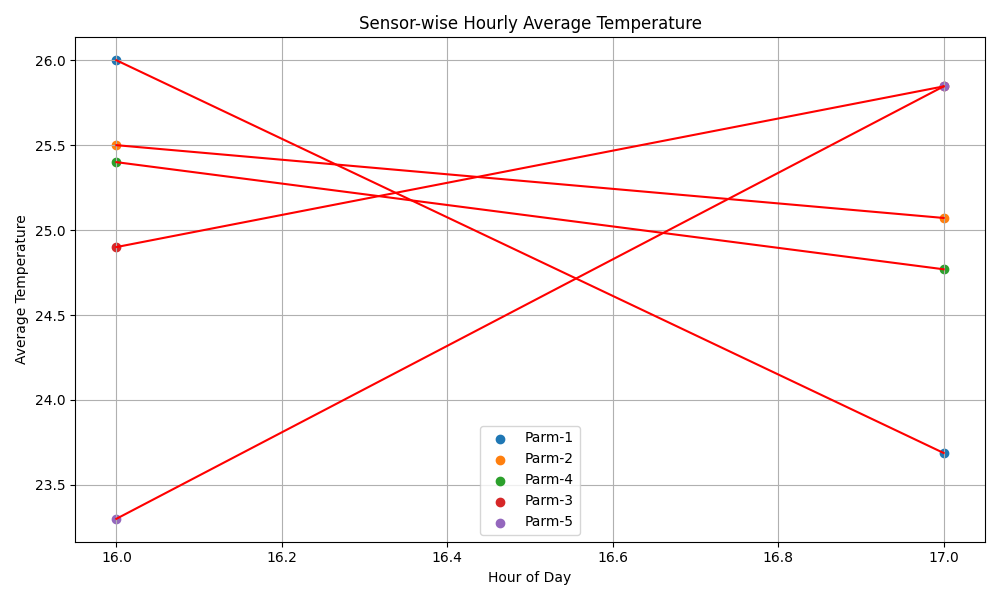
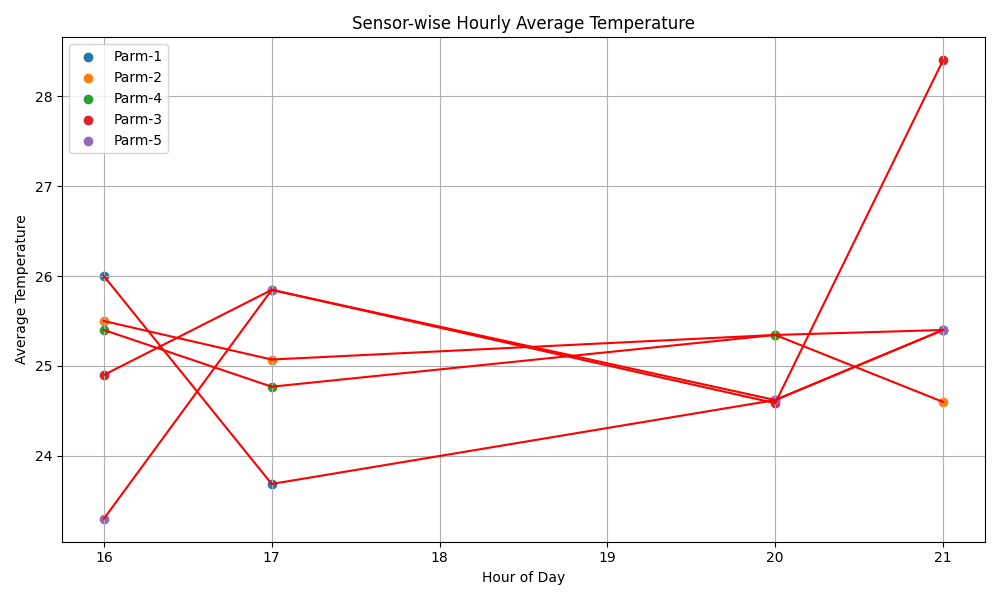
c4q3

diff --git a/proj2/c4q3/q2.py b/proj2/c4q3/q2.py
@@ -28,18 +28,84 @@ class ParmSensor:  # 센서 클래스 정의
 def insert_sensor_data(sensor_name, temperature, light, humidity):  # 센서 데이터를 DB에 저장
     conn = sqlite3.connect("smartfarm.db")  # 데이터베이스 연결
     cursor = conn.cursor()  # 커서 객체 생성
-    cursor.execute("""  # 데이터 삽입 SQL 실행
+    # 데이터 삽입 SQL 실행
+
+    timestamp = datetime.now().strftime("%Y-%m-%d %H:%M:%S")  # 문자열로 변환
+    cursor.execute("""  
         INSERT INTO parm_data (sensor_name, timestamp, temperature, light, humidity)
         VALUES (?, ?, ?, ?, ?)
-    """, (sensor_name, datetime.now(), temperature, light, humidity))  # 현재 시간 포함 데이터 삽입
+    """, (sensor_name, timestamp, temperature, light, humidity))  # 현재 시간 포함 데이터 삽입
     conn.commit()  # 변경사항 커밋
     conn.close()  # 연결 종료
+
+def print_all_data():
+    conn = sqlite3.connect("smartfarm.db")
+    cursor = conn.cursor()
+
+    cursor.execute("SELECT * FROM parm_data ORDER BY timestamp")
+    rows = cursor.fetchall()
+
+    print("\n[전체 센서 데이터]")
+    for row in rows:
+        print(row)
+
+    conn.close()
+
+def print_recent_data(start_time):
+    conn = sqlite3.connect("smartfarm.db")
+    cursor = conn.cursor()
+    #SQL 쿼리를 데이터베이스에 전달하고 실행합니다.
+    cursor.execute("""
+        SELECT * FROM parm_data
+        WHERE timestamp >= ?
+        ORDER BY timestamp
+    """, (start_time,))
+    # execute()로 실행된 쿼리의 결과를 모두 가져옵니다.
+    rows = cursor.fetchall()
+
+    print("\n[이번 실행 중 추가된 센서 데이터]")
+    for row in rows:
+        print(row)
+
+    conn.close()
+
+
+def analyze_data():  # 센서 데이터 분석 함수 정의
+    conn = sqlite3.connect("smartfarm.db")  # SQLite 데이터베이스 연결
+    cursor = conn.cursor()  # 커서 객체 생성
+
+    print("\n[센서별 데이터 수]")  # 센서별 데이터 개수 출력 제목
+    # 센서별로 데이터 개수를 집계하는 SQL 실행
+    cursor.execute("""  
+        SELECT sensor_name, COUNT(*) 
+        FROM parm_data 
+        GROUP BY sensor_name
+    """)
+    for row in cursor.fetchall():  # 쿼리 결과를 반복하며 출력
+        print(f"{row[0]}: {row[1]}개")  # 센서 이름과 데이터 개수 출력
+
+    print("\n[시간대별 평균 데이터]")  # 시간대별 평균 데이터 출력 제목
+    # 센서별, 시간대별 평균 온도, 조도, 습도 계산 SQL 실행
+    cursor.execute("""  
+        SELECT sensor_name, strftime('%Y-%m-%d %H', timestamp) AS hour,
+               AVG(temperature), AVG(light), AVG(humidity)
+        FROM parm_data
+        GROUP BY sensor_name, hour
+        ORDER BY sensor_name, hour
+    """)
+    for row in cursor.fetchall():  # 쿼리 결과를 반복하며 출력
+        print(f"{row[0]} {row[1]}시 - 평균 온도: {row[2]:.2f}, 조도: {row[3]:.2f}, 습도: {row[4]:.2f}")  # 센서 이름, 시간대, 평균값 출력
+
+    conn.close()  # 데이터베이스 연결 종료
+
+
 
 def sensor_worker(sensor, stop_event):  # 센서 쓰레드 함수
     while not stop_event.is_set():  # 종료 이벤트가 설정되지 않은 동안 반복
         sensor.SetData()  # 센서 데이터 설정
         temp, light, humi = sensor.GetData()  # 센서 데이터 가져오기
-        timestamp = datetime.now().strftime("%Y-%m-%d %H:%M:%S")  # 현재 시간 문자열로 저장
+        timestamp = datetime.now().strftime("%Y-%m-%d %H:%M:%S")
+  # 현재 시간 문자열로 저장
 
         insert_sensor_data(sensor.name, temp, light, humi)  # 데이터베이스에 저장
 
@@ -54,6 +120,8 @@ def sensor_worker(sensor, stop_event):  # 센서 쓰레드 함수
             time.sleep(1)  # 1초 대기
 
 def main():  # 프로그램 시작 함수
+    start_time = datetime.now().strftime("%Y-%m-%d %H:%M:%S")  # 실행 시작 시간 기록
+    print(f"센서 모니터링 시작 시간: {start_time}")  # 시작 시간 출력
     stop_event = threading.Event()  # 종료 이벤트 객체 생성
     sensors = [ParmSensor(f"Parm-{i}") for i in range(1, 6)]  # 센서 객체 5개 생성
     threads = []  # 쓰레드 리스트 초기화
@@ -65,17 +133,25 @@ def main():  # 프로그램 시작 함수
 
     print("센서 모니터링 중... 종료하려면 'q'를 입력하세요.")  # 사용자 안내 메시지 출력
 
-    while True:  # 사용자 입력 대기 루프
-        user_input = input()  # 사용자 입력 받기
-        if user_input.strip().lower() == 'q':  # 입력이 'q'이면
-            print("종료 중...")  # 종료 메시지 출력
-            stop_event.set()  # 종료 이벤트 설정
-            break  # 루프 탈출
+    # while True:  # 사용자 입력 대기 루프
+    #     user_input = input()  # 사용자 입력 받기
+    #     if user_input.strip().lower() == 'q':  # 입력이 'q'이면
+    #         print("종료 중...")  # 종료 메시지 출력
+    #         stop_event.set()  # 종료 이벤트 설정
+    #         break  # 루프 탈출
+    user_input = input()  # 사용자 입력 받기
+    print("종료 중...")  # 종료 메시지 출력
+    stop_event.set()  # 종료 이벤트 설정
+
 
     for thread in threads:  # 모든 쓰레드에 대해
         thread.join()  # 쓰레드 종료 대기
 
     print("모든 센서 쓰레드가 종료되었습니다.")  # 종료 완료 메시지 출력
+
+    # print_all_data()       # 전체 데이터 출력
+    print_recent_data(start_time)  # 이번 실행 중 추가된 데이터만 출력
+    analyze_data()         # 보너스 과제 분석
 
 if __name__ == '__main__':  # 이 파일이 직접 실행될 경우
     main()  # main 함수 실행

diff --git a/proj2/c4q3/q3.py b/proj2/c4q3/q3.py
@@ -16,6 +16,8 @@ class Node:  # 큐의 노드 클래스 정의
         self.data = data  # 저장할 데이터
         self.next = None  # 다음 노드 참조
 
+# 센서 데이터를 안전하게 저장하고 꺼내기 위한 FIFO 큐입니다.
+# 멀티 쓰레드 환경에서도 동기화를 위해 threading.Lock()을 사용합니다.
 class NodeQueue:  # 노드 기반 FIFO 큐 클래스 정의
     def __init__(self):  # 큐 초기화
         self.front = None  # 큐의 앞쪽 노드
@@ -61,15 +63,18 @@ class ParmSensor:  # 센서 클래스 정의
 
     def GetData(self):  # 센서 데이터를 반환
         return self.temperature, self.light, self.humidity  # 튜플로 반환
-
+    
+# SQLite를 사용하여 parm_data 테이블에 센서 데이터를 저장합니다.
+# insert_sensor_data()로 삽입하고, get_sensor_data()로 조회합니다.
 def insert_sensor_data(sensor_name, temperature, light, humidity):  # 센서 데이터를 DB에 저장
     conn = sqlite3.connect("smartfarm.db")  # DB 연결
     cursor = conn.cursor()  # 커서 생성
     # 데이터 삽입 SQL 실행
+    timestamp = datetime.now().strftime("%Y-%m-%d %H:%M:%S")  # ✅ 문자열로 변환
     cursor.execute("""  
         INSERT INTO parm_data (sensor_name, timestamp, temperature, light, humidity)
         VALUES (?, ?, ?, ?, ?)
-    """, (sensor_name, datetime.now(), temperature, light, humidity))  # 현재 시간 포함 삽입
+    """, (sensor_name, timestamp, temperature, light, humidity))  # 현재 시간 포함 삽입
     conn.commit()  # 변경사항 저장
     conn.close()  # 연결 종료
 
@@ -85,6 +90,8 @@ def get_sensor_data():  # DB에서 센서 데이터를 조회
 RED = "\033[91m"  # 빨간색 ANSI 코드
 RESET = "\033[0m"  # 색상 초기화 코드
 
+
+# 각 센서가 2초마다 데이터를 생성하고 큐에 넣습니다.
 def sensor_worker(sensor, stop_event):  # 센서 쓰레드 함수
     while not stop_event.is_set():  # 종료 이벤트가 설정되지 않은 동안 반복
         sensor.SetData()  # 센서 데이터 설정
@@ -98,6 +105,7 @@ def sensor_worker(sensor, stop_event):  # 센서 쓰레드 함수
 
         time.sleep(2)
 
+# 큐에서 데이터를 꺼내 DB에 저장합니다.
 def db_worker(stop_event):  # DB 쓰레드 함수
     while not stop_event.is_set():  # 종료 이벤트가 설정되지 않은 동안 반복
         data = sensorQ.get()  # 큐에서 데이터 꺼내기
@@ -107,6 +115,9 @@ def db_worker(stop_event):  # DB 쓰레드 함수
             print(f"[DB] 저장됨 → {sensor_name}, temp:{temp}, light:{light}, humi:{humi}")  # 콘솔 출력
         time.sleep(1)  # 1초 대기
 
+# 시간대별 평균 온도를 센서별로 선 그래프로 표시합니다.
+# 습도가 90 이상인 시간대는 빨간색 선으로 강조합니다.
+# 결과는 sensor_plot.png로 저장됩니다.
 def plot_sensor_data():  # 그래프 시각화 함수
     data = get_sensor_data()  # DB에서 데이터 조회
     if not data:  # 데이터가 없으면 종료
@@ -143,6 +154,12 @@ def plot_sensor_data():  # 그래프 시각화 함수
     print("📊 그래프가 sensor_plot.png 파일로 저장되었습니다.")  # 저장 완료 메시지
 
 # 메인 함수
+# 실행 흐름 요약
+# 센서 객체 5개 생성 (Parm-1 ~ Parm-5)
+# 각 센서에 대해 쓰레드 실행 → 센서 데이터 생성 및 큐에 저장
+# DB 쓰레드 실행 → 큐에서 데이터 꺼내 DB에 저장
+# 사용자 입력으로 'q'를 입력하면 모든 쓰레드 종료
+# 종료 후 DB 데이터를 기반으로 그래프 생성 및 저장
 def main():  # 프로그램의 시작점 정의
     stop_event = threading.Event()  # 쓰레드 종료를 제어할 이벤트 객체 생성
 

diff --git a/proj2/c4q3/q3.md b/proj2/c4q3/q3.md
@@ -1,5 +1,54 @@
 좋아, 지금까지 만든 프로그램의 전체 실행 흐름을 **실행 순서대로 단계별로 설명**해줄게. 이 프로그램은 센서 데이터를 생성하고, 큐를 통해 비동기적으로 DB에 저장한 뒤, 종료 시 그래프로 시각화하는 구조야.
+이 코드는 스마트팜 환경에서 센서 데이터를 수집하고 저장하며, 시각화까지 자동으로 처리하는 시스템을 구현한 것입니다. 전체적인 구조와 기능을 요약하면 다음과 같습니다:
 
+---
+
+### 🧠 주요 구성 요소
+
+#### 1. **센서 시뮬레이션 (`ParmSensor`)**
+- 온도, 조도, 습도 데이터를 무작위로 생성합니다.
+- `SetData()`로 값을 설정하고 `GetData()`로 반환합니다.
+
+#### 2. **큐 시스템 (`NodeQueue`)**
+- 센서 데이터를 안전하게 저장하고 꺼내기 위한 FIFO 큐입니다.
+- 멀티 쓰레드 환경에서도 동기화를 위해 `threading.Lock()`을 사용합니다.
+
+#### 3. **데이터베이스 처리**
+- SQLite를 사용하여 `parm_data` 테이블에 센서 데이터를 저장합니다.
+- `insert_sensor_data()`로 삽입하고, `get_sensor_data()`로 조회합니다.
+
+#### 4. **멀티 쓰레드 작업**
+- `sensor_worker`: 각 센서가 2초마다 데이터를 생성하고 큐에 넣습니다.
+- `db_worker`: 큐에서 데이터를 꺼내 DB에 저장합니다.
+- `stop_event`를 통해 쓰레드 종료를 제어합니다.
+
+#### 5. **시각화 (`plot_sensor_data`)**
+- 시간대별 평균 온도를 센서별로 선 그래프로 표시합니다.
+- 습도가 90 이상인 시간대는 빨간색 선으로 강조합니다.
+- 결과는 `sensor_plot.png`로 저장됩니다.
+
+---
+
+### 📌 실행 흐름 요약
+
+1. 센서 객체 5개 생성 (`Parm-1` ~ `Parm-5`)
+2. 각 센서에 대해 쓰레드 실행 → 센서 데이터 생성 및 큐에 저장
+3. DB 쓰레드 실행 → 큐에서 데이터 꺼내 DB에 저장
+4. 사용자 입력으로 `'q'`를 입력하면 모든 쓰레드 종료
+5. 종료 후 DB 데이터를 기반으로 그래프 생성 및 저장
+
+---
+
+### ✅ 개선 아이디어
+
+- **DB 테이블 생성 코드 추가**: `parm_data` 테이블이 없을 경우 자동 생성하도록 보완 가능
+- **예외 처리**: DB 연결 실패, 쓰레드 오류 등에 대한 예외 처리 추가
+- **실시간 시각화**: matplotlib 대신 `plotly`나 `dash`를 활용하면 웹 기반 실시간 시각화도 가능
+- **센서 데이터 범위 조정**: 실제 환경에 맞게 센서 값 범위를 조정하거나 센서 종류 추가
+
+---
+
+필요하다면 이 코드를 기반으로 웹 대시보드, 알림 시스템, 자동 제어 로직 등으로 확장할 수도 있어요. 혹시 이 시스템을 더 발전시키고 싶다면 어떤 방향으로 확장할지 알려주세요!
 ---
 
 ## 🧭 전체 실행 순서 요약

diff --git a/proj2/c4q3/q2.md b/proj2/c4q3/q2.md
@@ -355,3 +355,67 @@ GROUP BY sensor_name, hour;
 ---
 
 필요하시면 이 전체 코드를 하나로 정리해드릴 수도 있어요. 아니면 나중에 MySQL로 전환하는 방법도 알려드릴게요. 어떤 방향으로 더 도와드릴까요?
+
+좋아요! 아래는 `analyze_data()` 함수에서 사용된 두 개의 SQL 쿼리를 **한 줄씩 자세히 설명**한 내용입니다. 이 쿼리들은 각각:
+
+1. 센서별 데이터 수를 집계하는 쿼리
+2. 센서별 시간대별 평균 데이터를 계산하는 쿼리
+
+---
+
+## 🧮 1. 센서별 데이터 수 집계 쿼리
+
+```sql
+SELECT sensor_name, COUNT(*) 
+FROM parm_data 
+GROUP BY sensor_name
+```
+
+### 🔍 설명:
+
+| 구문 | 의미 |
+|------|------|
+| `SELECT sensor_name, COUNT(*)` | 각 센서 이름과 해당 센서가 기록한 데이터의 총 개수를 선택함 |
+| `FROM parm_data` | `parm_data` 테이블에서 데이터를 조회함 |
+| `GROUP BY sensor_name` | 센서 이름별로 데이터를 묶어서 집계함 |
+
+📌 결과: 각 센서가 몇 개의 데이터를 기록했는지 출력됩니다. 예:  
+```
+Parm-1: 120개  
+Parm-2: 115개  
+...
+```
+
+---
+
+## 📊 2. 센서별 시간대별 평균 데이터 계산 쿼리
+
+```sql
+SELECT sensor_name, strftime('%Y-%m-%d %H', timestamp) AS hour,
+       AVG(temperature), AVG(light), AVG(humidity)
+FROM parm_data
+GROUP BY sensor_name, hour
+ORDER BY sensor_name, hour
+```
+
+### 🔍 설명:
+
+| 구문 | 의미 |
+|------|------|
+| `SELECT sensor_name` | 센서 이름을 선택함 |
+| `strftime('%Y-%m-%d %H', timestamp) AS hour` | `timestamp`에서 날짜와 시간(시 단위)만 추출해서 `hour`라는 별칭으로 사용함 |
+| `AVG(temperature), AVG(light), AVG(humidity)` | 해당 시간대의 평균 온도, 조도, 습도를 계산함 |
+| `FROM parm_data` | `parm_data` 테이블에서 데이터를 조회함 |
+| `GROUP BY sensor_name, hour` | 센서 이름과 시간대별로 데이터를 묶어서 평균을 계산함 |
+| `ORDER BY sensor_name, hour` | 센서 이름과 시간대 순으로 결과를 정렬함 |
+
+📌 결과: 각 센서가 특정 시간대에 기록한 평균값이 출력됩니다. 예:  
+```
+Parm-1 2025-11-01 21시 - 평균 온도: 25.3, 조도: 7800.2, 습도: 65.1  
+Parm-2 2025-11-01 21시 - 평균 온도: 24.9, 조도: 7900.0, 습도: 67.3  
+...
+```
+
+---
+
+이해를 돕기 위해 원하시면 예시 데이터와 함께 결과를 시각화해드릴 수도 있어요. 또는 SQL을 더 깊게 배우고 싶다면 JOIN, WHERE, HAVING 같은 구문도 설명해드릴 수 있습니다. 어떤 방향으로 더 알아보고 싶으세요?
